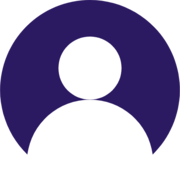
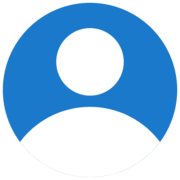
Projeto

diff --git a/projeto/style.css b/projeto/style.css
@@ -2,8 +2,10 @@
 
 :root {
     --corDeFundo: rgba(128, 128, 128, 0.134);
-    --padrao: rgb(43, 25, 98);
+    --padrao: #1b79cc;
     --fonte: Arial, Helvetica, sans-serif;
+    --cinzaPadrão: rgba(128, 128, 128, 0.466);
+    --transicao: #478ac4;
 }
 
 * {
@@ -69,30 +71,33 @@ input.txt {
     padding: 5px;
     width: 300px;
     height: 28px;
-    border-radius: 6px;
-    box-shadow: 3px 3px 3px rgba(0, 0, 0, 0.266);
+    border-radius: 10px;
+    border: none;
+    box-shadow: 0px 3px 3px rgba(0, 0, 0, 0.266);
     font-family: var(--fonte);
     font-size: 14px;
-    background-color: transparent;
+    background-color: white;
     padding-left: 40px;
 }
 
 i#iUsuario {
     position: absolute;
     display: block;
-    left: 62px;
-    top: 148px;
+    left: 60px;
+    top: 150px;
     height: 18px;
-    color: var(--padrao);
+    color: var(--cinzaPadrão);
+    font-size: 14pt;
 }
 
 i#iSenha {
     position: absolute;
     display: block;
-    left: 62px;
-    top: 260px;
+    left: 59px;
+    top: 254px;
     height: 18px;
-    color: var(--padrao);
+    color: var(--cinzaPadrão);
+    font-size: 14pt;
 }
 
 i#iFotoUser {
@@ -108,7 +113,14 @@ div#dCadeSenha {
 a.aCe {
     text-decoration: none;
     color: var(--padrao);
+    font-size: 14px;
+    font-weight: bold;
+}
+
+a.aCe:hover{
+    color: var(--transicao);
     font-weight: bolder;
+    text-decoration:underline;
 }
 
 a#aCadastrar {
@@ -118,19 +130,23 @@ a#aCadastrar {
 
 a#aEsqueceuSenha {
     float: right;
-    padding-right: 34px;
+    padding-right: 36px;
 }
 
 button.btn {
-    padding: 10px;
-    width: 100px;
-    margin-right: 10px;
-    border-radius: 4px;
+    padding: 8px;
+    width: 120px;
+    margin-right: 14px;
+    border-radius: 10px;
     font-size: 12pt;
-    box-shadow: 3pt 3pt 3pt rgba(0, 0, 0, 0.255);
+    box-shadow: 0px 3px 3px rgba(0, 0, 0, 0.255);
     font-weight: bolder;
     font-family: var(--fonte);
     background-color: var(--padrao);
     color: white;
     border: none;
+}
+
+button.btn:hover{
+    background-color: var(--transicao);
 }

diff --git a/projeto/home.html b/projeto/home.html
@@ -16,12 +16,12 @@
             <form>
                 <div class="dInputs" id="dPrincipal">
                     <label for="txtUser">User</label>
-                    <input type="text" id="txtUser" class="txt">
+                    <input type="text" id="txtUser" class="txt" required>
                     <i class="fa-solid fa-user" aria-hidden="true" id="iUsuario"></i> 
                 </div>
                 <div class="dInputs" id="dSecundaria">
                     <label for="txtSenha">Senha</label> 
-                    <input type="password" id="txtSenha" class="txt">
+                    <input type="password" id="txtSenha" class="txt" required>
                     <i class="fa-solid fa-lock" id="iSenha"></i>                          
                 </div>
                 <div id="dCadeSenha">
